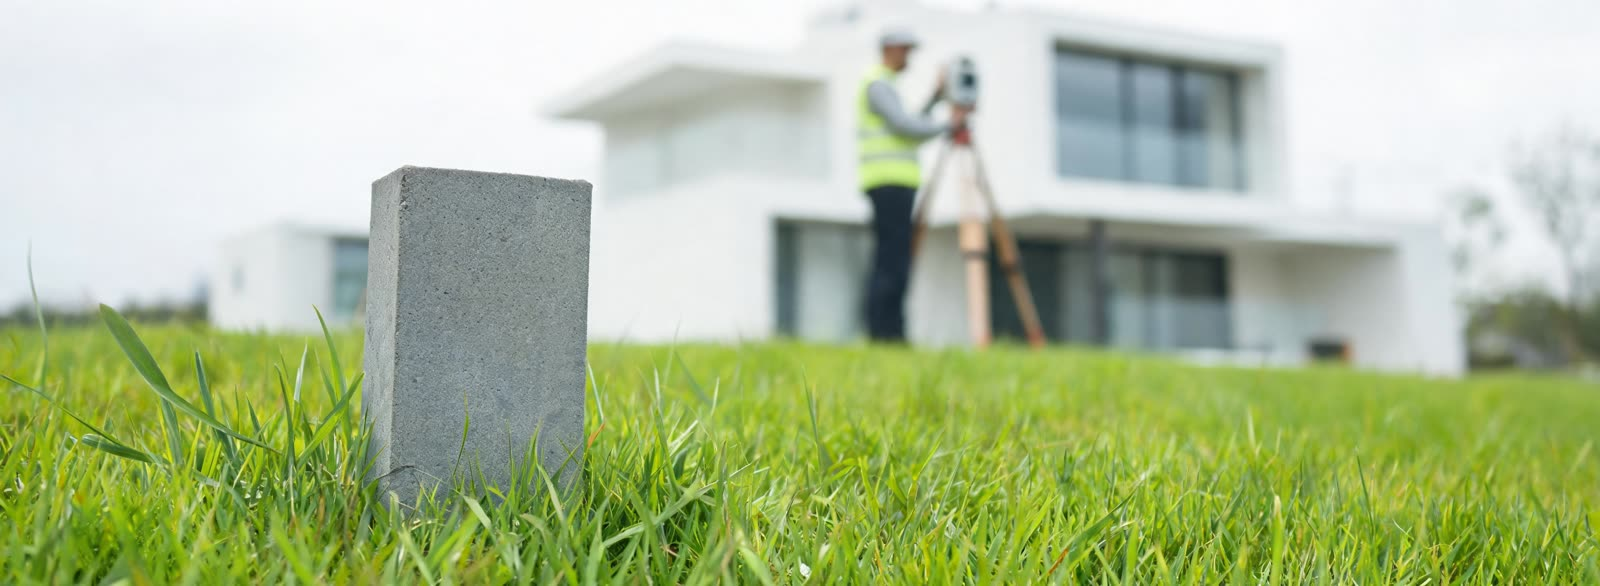
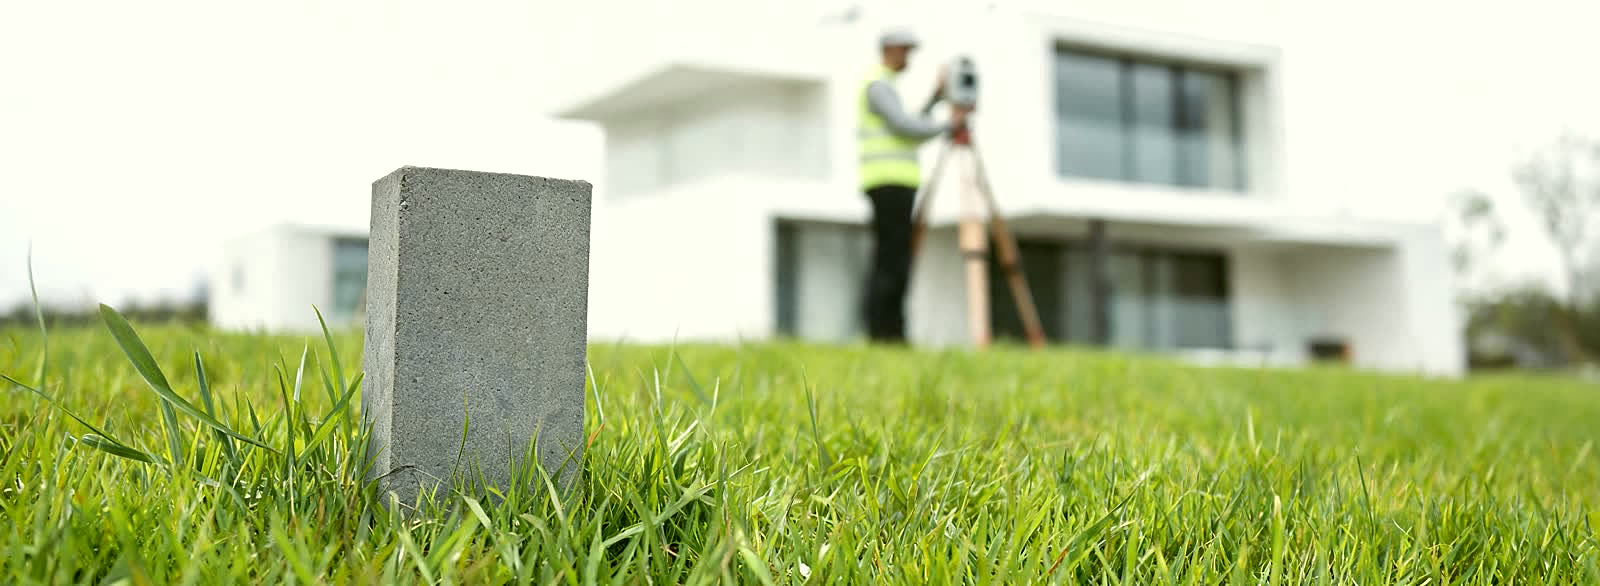
แก้ประสบการณ์เป็น 12 ปี และแต่งสีภาพประกอบหน้าแรก
- เปลี่ยน "20 ปี" เป็น "12 ปี" 2 จุด (ตัวเลขสถิติหัวเว็บ และย่อหน้าหมวดทีมเรา)
  ตัวเลขเดิมมาจากเว็บก่อนเปลี่ยนดีไซน์ เจ้าของยืนยันว่า 12 ปีถูกต้อง

- แต่งสีภาพประกอบทั้ง 6 ใบ เจ้าของเลือกจากตัวอย่างเทียบ 3 แบบก่อนขึ้นจริง
  hero.jpg   ใช้แบบ A โทนธรรมชาติ อุ่นเล็กน้อย เพิ่มคอนทราสต์และความคม
  อีก 5 ใบ   ใช้แบบ B อุ่นและเข้มกว่า ลดความจัดของสีเขียวให้เข้าโทนครีม-ทองของแบรนด์

  เป็นการเกรดสีจากไฟล์เดิมด้วย ffmpeg ขนาดและสัดส่วนทุกใบเท่าเดิม
  ไม่ต้องแก้ width/height ใน index.html · รวมทุกใบ 752 KB

ยังเป็นภาพสต็อกเหมือนเดิม ไม่ใช่รูปทีมงานจริง — เหตุผลบันทึกไว้ใน CLAUDE.md แล้ว

diff --git a/index.html b/index.html
@@ -69,7 +69,7 @@
           <div style="font-size:14px;font-weight:300;color:rgba(255,255,255,0.82)">ยินยอมจากเจ้าของก่อนเผยแพร่</div>
         </div>
         <div>
-          <div style="font-family:Trirong,serif;font-size:32px;color:#DFC98F;line-height:1.2">20 ปี</div>
+          <div style="font-family:Trirong,serif;font-size:32px;color:#DFC98F;line-height:1.2">12 ปี</div>
           <div style="font-size:14px;font-weight:300;color:rgba(255,255,255,0.82)">ประสบการณ์ทำงานในสนาม</div>
         </div>
       </div>
@@ -184,7 +184,7 @@
       <div>
         <div style="font-size:13px;letter-spacing:0.06em;color:#8A6A2E;margin-bottom:18px">คนที่อยู่เบื้องหลัง</div>
         <h2 style="font-family:Trirong,serif;font-weight:500;font-size:40px;line-height:1.38;letter-spacing:-0.01em;margin:0 0 22px">ทีมที่ลงไปยืนบนที่ดินจริง</h2>
-        <p style="font-size:16px;font-weight:300;line-height:1.68;color:#4F5147;margin:0 0 26px">เราไม่ใช่เว็บรวมประกาศที่นั่งอยู่หลังจอ — <span style="font-family:Trirong,serif;font-weight:500;color:#14170F">เราคือสำนักงานช่างรังวัดที่ทำงานในสนามมากว่า 20 ปี</span> ทุกแปลงที่ขึ้นเว็บนี้ มีคนของเราเดินเข้าไปวัด ตรวจหมุด และคุยกับเจ้าของที่ดินมาแล้วจริง ๆ</p>
+        <p style="font-size:16px;font-weight:300;line-height:1.68;color:#4F5147;margin:0 0 26px">เราไม่ใช่เว็บรวมประกาศที่นั่งอยู่หลังจอ — <span style="font-family:Trirong,serif;font-weight:500;color:#14170F">เราคือสำนักงานช่างรังวัดที่ทำงานในสนามมากว่า 12 ปี</span> ทุกแปลงที่ขึ้นเว็บนี้ มีคนของเราเดินเข้าไปวัด ตรวจหมุด และคุยกับเจ้าของที่ดินมาแล้วจริง ๆ</p>
         <div style="border-left:2px solid #C0A163;padding:4px 0 4px 22px">
           <div style="font-family:Trirong,serif;font-weight:500;font-size:19px;margin-bottom:8px">สำนักงานช่างรังวัดเอกชน ใบอนุญาตเลขที่ 351</div>
           <p style="font-size:15px;font-weight:300;line-height:1.65;color:#6B6B62;margin:0">ใบอนุญาตนี้ออกโดยกรมที่ดิน และเป็นเหตุผลที่เรายืนยันแนวเขตให้ได้จริง ต่างจากนายหน้าทั่วไปที่ต้องจ้างช่างรังวัดต่ออีกทอด — เจ้าของที่ดินจึงคุยกับคนที่ลงมือทำได้โดยตรง</p>
